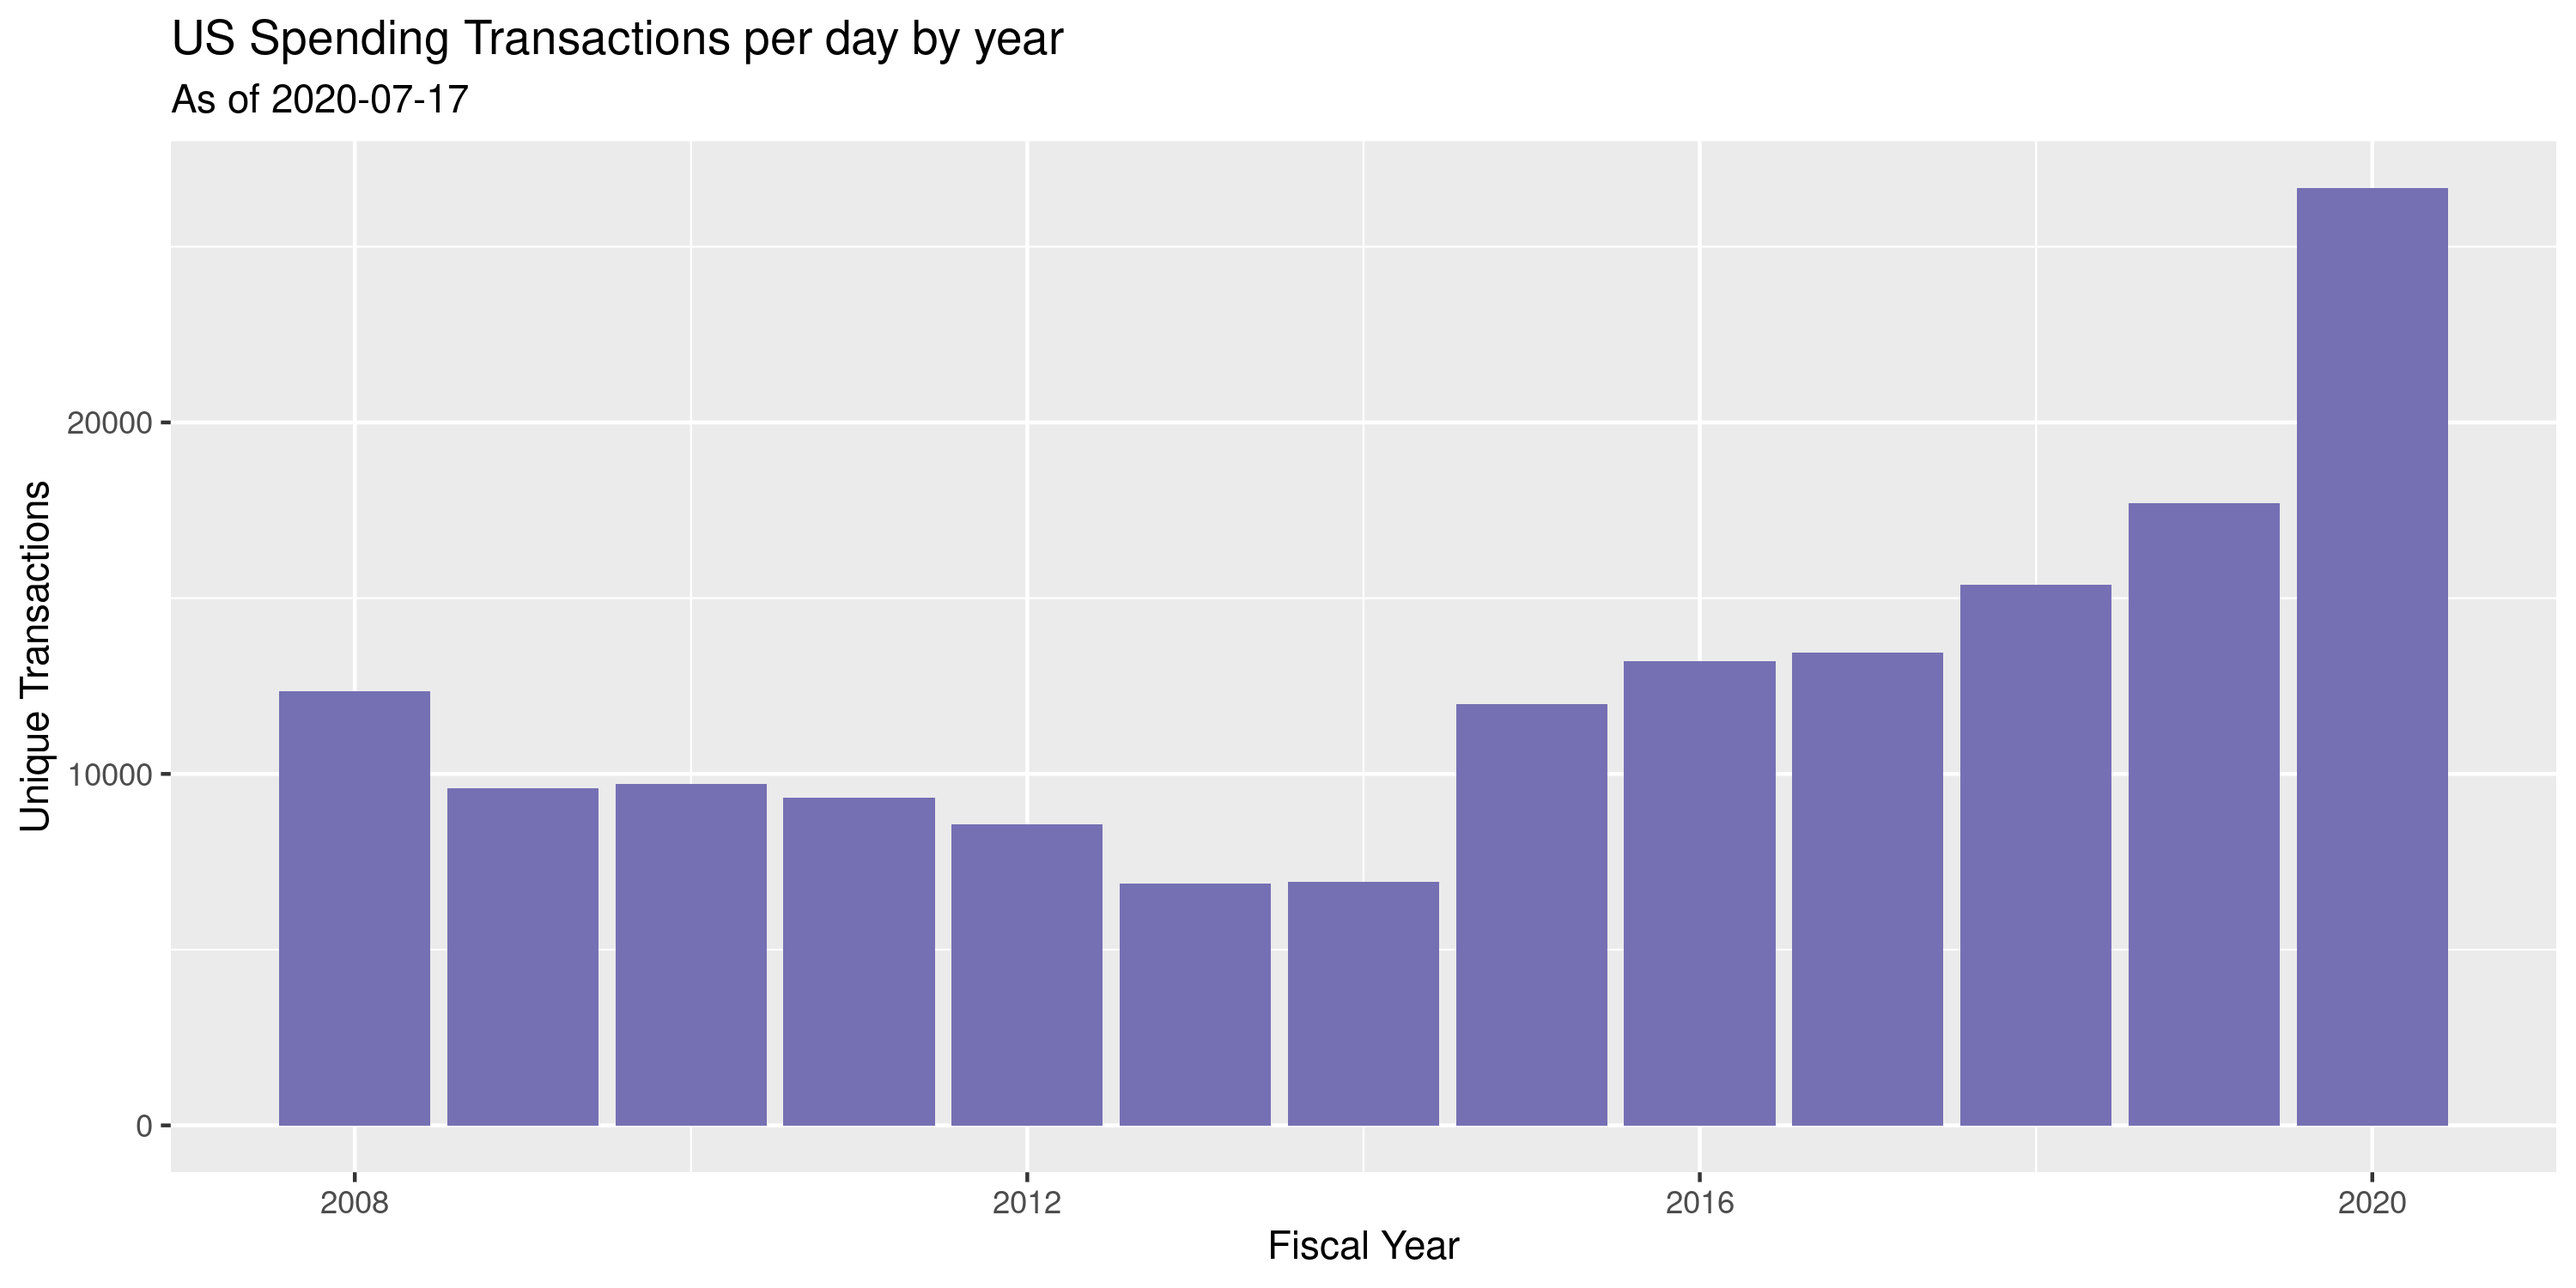
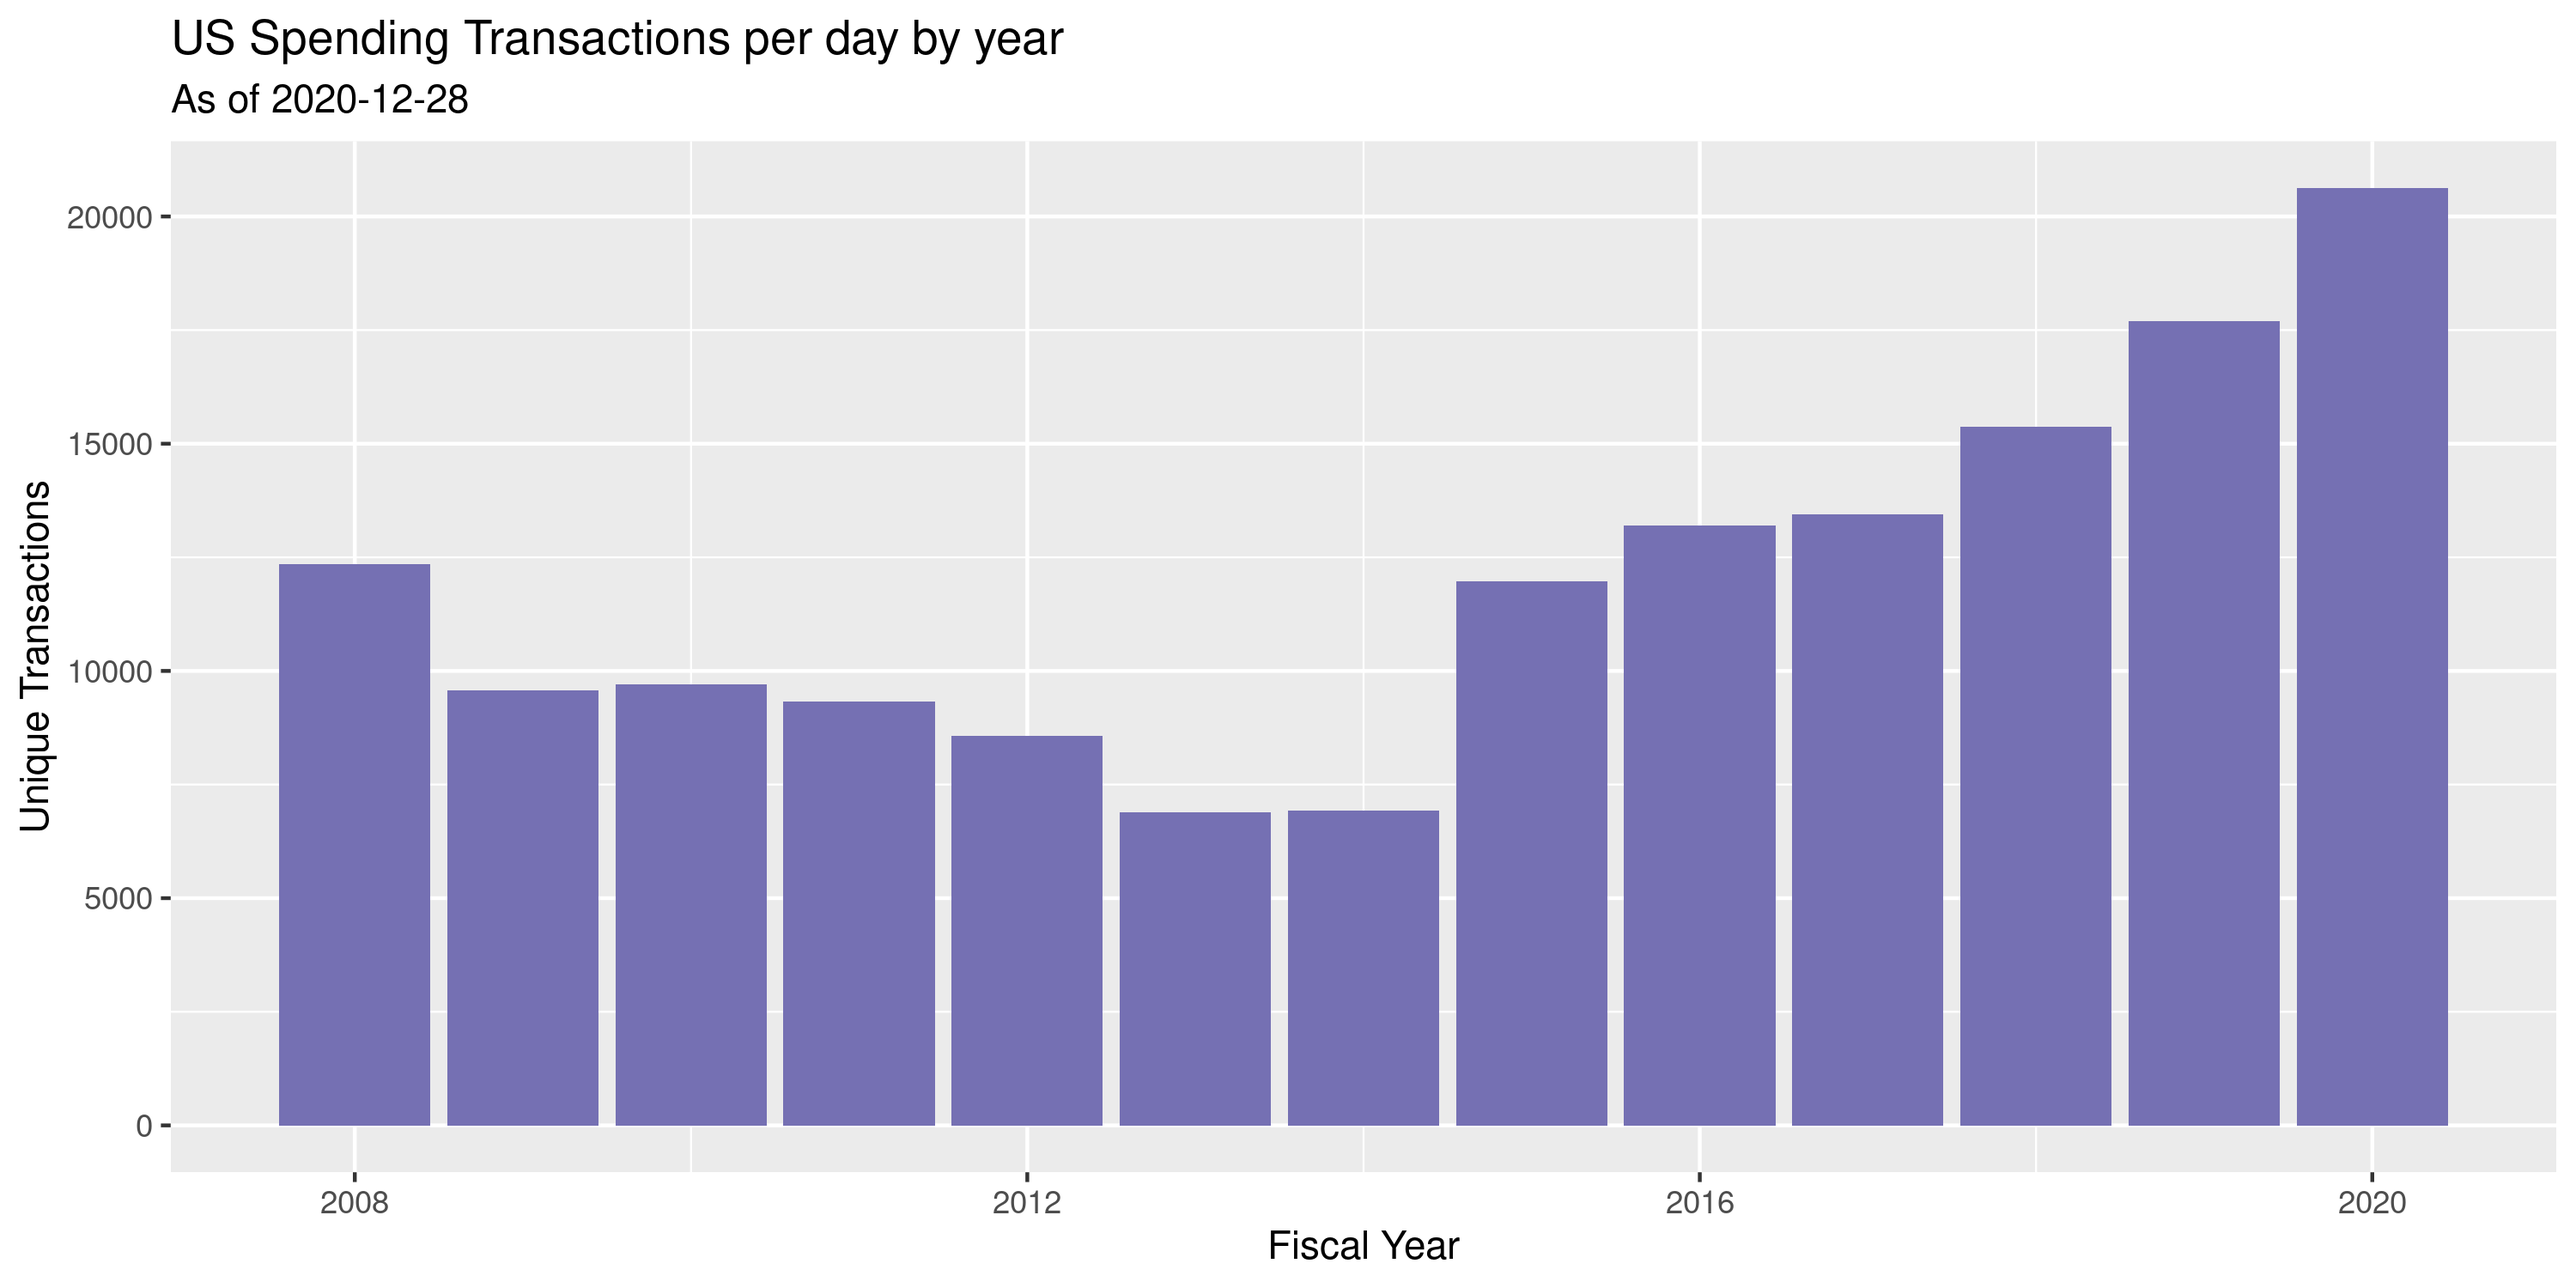
Update US contracts

diff --git a/R_campfin/us/contracts/docs/us_spending_update.md b/R_campfin/us/contracts/docs/us_spending_update.md
@@ -1,7 +1,7 @@
 Federal Contracts Update
 ================
 Kiernan Nicholls
-2020-07-17 10:58:55
+2020-12-28 12:22:33
 
   - [Project](#project)
   - [Objectives](#objectives)
@@ -12,7 +12,6 @@ Kiernan Nicholls
   - [Layout](#layout)
   - [Read](#read)
   - [Check](#check)
-  - [Delta](#delta)
 
 <!-- Place comments regarding knitting here -->
 
@@ -148,14 +147,14 @@ files.
 ``` r
 zip_dir <- dir_create(here("us", "contracts", "data", "zip"))
 base_url <- "https://files.usaspending.gov/award_data_archive/"
-con_date <- as.Date("2020-07-13") # today()
+con_date <- as.Date("2020-12-07")
 con_files <- glue("FY2020_All_Contracts_Full_{format(con_date, '%Y%m%d')}.zip")
-con_urls <- str_c(base_url, con_files)
-con_zips <- path(zip_dir, con_files)
+con_url <- str_c(base_url, con_files)
+con_zip <- path(zip_dir, con_files)
 ```
 
-    #> [1] "https://files.usaspending.gov/award_data_archive/FY2020_All_Contracts_Full_20200713.zip"
-    #> [1] "~/us/contracts/data/zip/FY2020_All_Contracts_Full_20200713.zip"
+    #> [1] "https://files.usaspending.gov/award_data_archive/FY2020_All_Contracts_Full_20201207.zip"
+    #> /home/kiernan/Code/tap/R_campfin/us/contracts/data/zip/FY2020_All_Contracts_Full_20201207.zip
 
 We also need to add the records for spending and corrections made since
 this file was last updated. This is information is crucial, as it
@@ -172,17 +171,17 @@ contains the most recent data. This information can be found in the
 > download data prior to FY 2008, visit our Custom Award Data page.
 
 ``` r
-delta_file <- "FY(All)_All_Contracts_Delta_20200713.zip"
-delta_url <- str_c(base_url, delta_file)
-delta_zip <- path(zip_dir, delta_file)
+del_file <- glue("FY(All)_All_Contracts_Delta_{format(con_date, '%Y%m%d')}.zip")
+del_url <- str_c(base_url, del_file)
+del_zip <- path(zip_dir, del_file)
 ```
 
 If the archive files have not been downloaded, we can do so now.
 
 ``` r
-if (!all(file_exists(c(con_zips, delta_zip)))) {
-  download.file(con_urls, con_zips)
-  download.file(delta_url, delta_zip)
+if (!all(file_exists(c(con_zip, del_zip)))) {
+  download.file(con_url, con_zip)
+  download.file(del_url, del_zip)
 }
 ```
 
@@ -194,14 +193,14 @@ directory.
 ``` r
 raw_dir <- dir_create(here("us", "contracts", "data", "raw"))
 if (length(dir_ls(raw_dir)) == 0) {
-  future_map(con_zips, unzip, exdir = raw_dir)
-  future_map(delta_zip, unzip, exdir = raw_dir)
+  unzip(con_zip, exdir = raw_dir)
+  unzip(del_zip, exdir = raw_dir)
 }
 ```
 
 ``` r
-con_paths <- dir_ls(raw_dir, regexp = "FY\\d+.*20200714_\\d.csv")
-delta_paths <- dir_ls(raw_dir, regexp = "FY\\(All\\).*20200714_\\d.csv")
+con_paths <- dir_ls(raw_dir, regexp = "FY\\d+.*\\d.csv")
+delta_paths <- dir_ls(raw_dir, regexp = "FY\\(All\\).*\\d.csv")
 ```
 
 ## Layout
@@ -219,7 +218,8 @@ if (!file_exists(dict_file)) {
 }
 dict <- read_excel(
   path = dict_file, 
-  range = "A2:L414",
+  range = "A2:O448",
+  sheet = "Public",
   na = "N/A",
   .name_repair = make_clean_names
 )
@@ -227,7 +227,7 @@ dict <- read_excel(
 usa_names <- names(vroom(con_paths[which.min(file_size(con_paths))], n_max = 0))
 # get cols from hhs data
 mean(usa_names %in% dict$award_element)
-#> [1] 0.825
+#> [1] 0.9020979
 dict %>% 
   filter(award_element %in% usa_names) %>% 
   select(award_element, definition) %>% 
@@ -244,12 +244,12 @@ dict %>%
 | transaction\_number                  | Tie Breaker for legal, unique transactions that would otherwise have the… |
 | parent\_award\_agency\_id            | Identifier used to link agency in FPDS-NG to referenced IDV information.  |
 | parent\_award\_agency\_name          | Name of the agency associated with the code in the Referenced IDV Agency… |
+| parent\_award\_id\_piid              | The identifier of the procurement award under which the specific award i… |
 | parent\_award\_modification\_number  | When reporting orders under Indefinite Delivery Vehicles (IDV) such as a… |
-| total\_dollars\_obligated            | This is a system generated element providing the sum of all the amounts … |
 | base\_and\_exercised\_options\_value | The change (from this transaction only) to the current contract value (i… |
-| current\_total\_value\_of\_award     | Total amount obligated to date on an award. For a contract, this amount … |
+| current\_total\_value\_of\_award     | For procurement, the total amount obligated to date on a contract, inclu… |
 | base\_and\_all\_options\_value       | The change (from this transaction only) to the potential contract value … |
-| potential\_total\_value\_of\_award   | Total amount that could be obligated on a contract, if the base and all … |
+| potential\_total\_value\_of\_award   | For procurement, the total amount that could be obligated on a contract,… |
 
 ## Read
 
@@ -258,10 +258,10 @@ them all at once into a single data file for exploration and wrangling.
 
 ``` r
 length(con_paths)
-#> [1] 4
+#> [1] 6
 # total file sizes
 sum(file_size(con_paths))
-#> 6.87G
+#> 11.3G
 # avail local memory
 as_fs_bytes(str_extract(system("free", intern = TRUE)[2], "\\d+"))
 #> 31.4M
@@ -404,14 +404,14 @@ for (f in c(con_paths, delta_paths)) {
 
 ## Check
 
-In the end, 5 files were read and checked.
+In the end, 7 files were read and checked.
 
 ``` r
-all_paths <- dir_ls(raw_dir, regexp = "20200714")
+all_paths <- dir_ls(raw_dir, regexp = "20201208")
 length(all_paths)
-#> [1] 5
+#> [1] 7
 sum(file_size(all_paths))
-#> 8.44G
+#> 12.5G
 ```
 
 Now we can read the `spend_check.csv` text file to see the statistics
@@ -436,9 +436,9 @@ all_checks %>%
     zip = mean(zip)
   )
 #> # A tibble: 1 x 11
-#>       nrow  ncol  type sum     start      end             missing  zero  city state   zip
-#>      <dbl> <dbl> <dbl> <chr>   <date>     <date>            <dbl> <dbl> <dbl> <dbl> <dbl>
-#> 1 58988837  41.6  4.97 7.2e+12 2000-10-01 2020-07-11 0.0000000170 0.174 0.966  1.00 0.982
+#>       nrow  ncol  type sum      start      end             missing  zero  city state   zip
+#>      <dbl> <dbl> <dbl> <chr>    <date>     <date>            <dbl> <dbl> <dbl> <dbl> <dbl>
+#> 1 60924420  49.2  4.97 7.41e+12 2000-10-01 2020-12-03 0.0000000492 0.173 0.966  1.00 0.982
 ```
 
 ``` r
@@ -525,43 +525,10 @@ And here we have the total checks for every file.
 | `FYdelta-2.csv` | 1,000,000 | 2000-10-01 | 2020-03-11 |       0 | 4.9%  | 89.1% | 100.0% | 97.5% |
 | `FYdelta-3.csv` | 1,000,000 | 2000-10-01 | 2020-01-08 |       0 | 1.7%  | 94.5% | 100.0% | 98.8% |
 | `FYdelta-4.csv` | 539,641   | 2000-10-01 | 2020-01-08 |       0 | 3.2%  | 96.6% | 100.0% | 97.9% |
-| `FY2020_1.csv`  | 1,000,000 | 2020-03-17 | 2020-07-11 |       0 | 18.3% | 98.6% | 100.0% | 99.0% |
-| `FY2020_2.csv`  | 1,000,000 | 2020-01-24 | 2020-03-17 |       0 | 12.5% | 98.0% | 100.0% | 98.7% |
-| `FY2020_3.csv`  | 1,000,000 | 2019-11-19 | 2020-01-27 |       1 | 12.6% | 97.8% | 100.0% | 98.6% |
-| `FY2020_4.csv`  | 722,494   | 2019-10-01 | 2019-11-19 |       0 | 13.5% | 97.8% | 100.0% | 98.7% |
-| `FY(All)_1.csv` | 856,598   | 2000-11-03 | 2020-07-11 |       0 | 12.9% | 98.2% | 100.0% | 98.7% |
-
-## Delta
-
-These 2020 files contain *all* records of contracts made in the 2020
-fiscal year as of June 12. This means records that were previously only
-listed in th Delta files are now incorporated in the regular dataset. To
-ensure the TAP database is both comprehensive and absent of needless
-duplicates, we will remove the previous delta file and replace it only
-with those records not now found in the regular data.
-
-We will have to manually download the old delta files and read them into
-a single data frame. Then, we can filter out duplicate records and
-create a new file of old delta records, mostly corrections to pre-2020
-records.
-
-``` r
-new_delta_path <- path(raw_dir, "us_contracts_delta-old.csv")
-old_delta <- vroom(dir_ls(here("us", "contracts", "data", "old")))
-comma(nrow(old_delta))
-#> [1] "3,539,641"
-new_keys <- dir_ls(raw_dir, regex = "\\d.csv$") %>% 
-  map(vroom, col_types = cols(.default = "c")) %>% 
-  map_df(select, key)
-new_keys <- unique(as_vector(new_keys))
-comma(length(new_keys))
-#> [1] "3,924,871"
-percent(mean(old_delta$key %in% new_keys), 0.1)
-#> [1] "32.0%"
-old_delta <- filter(old_delta, key %out% new_keys)
-comma(nrow(old_delta))
-#> [1] "2,405,527"
-new_delta_path <- path(raw_dir, "us_contracts_delta-old.csv")
-flush_memory()
-write_csv(old_delta, new_delta_path, na = "")
-```
+| `FY2020_1.csv`  | 1,000,000 | 2019-10-01 | 2020-09-30 |       1 | 14.4% | 97.8% | 100.0% | 98.6% |
+| `FY2020_2.csv`  | 1,000,000 | 2019-10-01 | 2020-09-30 |       1 | 14.3% | 97.8% | 100.0% | 98.6% |
+| `FY2020_3.csv`  | 1,000,000 | 2019-10-01 | 2020-09-30 |       0 | 14.3% | 97.8% | 100.0% | 98.6% |
+| `FY2020_4.csv`  | 1,000,000 | 2019-10-01 | 2020-09-30 |       0 | 14.4% | 97.8% | 100.0% | 98.6% |
+| `FY2020_5.csv`  | 1,000,000 | 2019-10-01 | 2020-09-30 |       0 | 14.4% | 97.8% | 100.0% | 98.6% |
+| `FY2020_6.csv`  | 902,385   | 2019-10-01 | 2020-09-30 |       0 | 14.3% | 97.8% | 100.0% | 98.6% |
+| `FY(All)_1.csv` | 612,290   | 2000-10-04 | 2020-12-03 |       1 | 17.4% | 97.6% | 100.0% | 98.4% |
